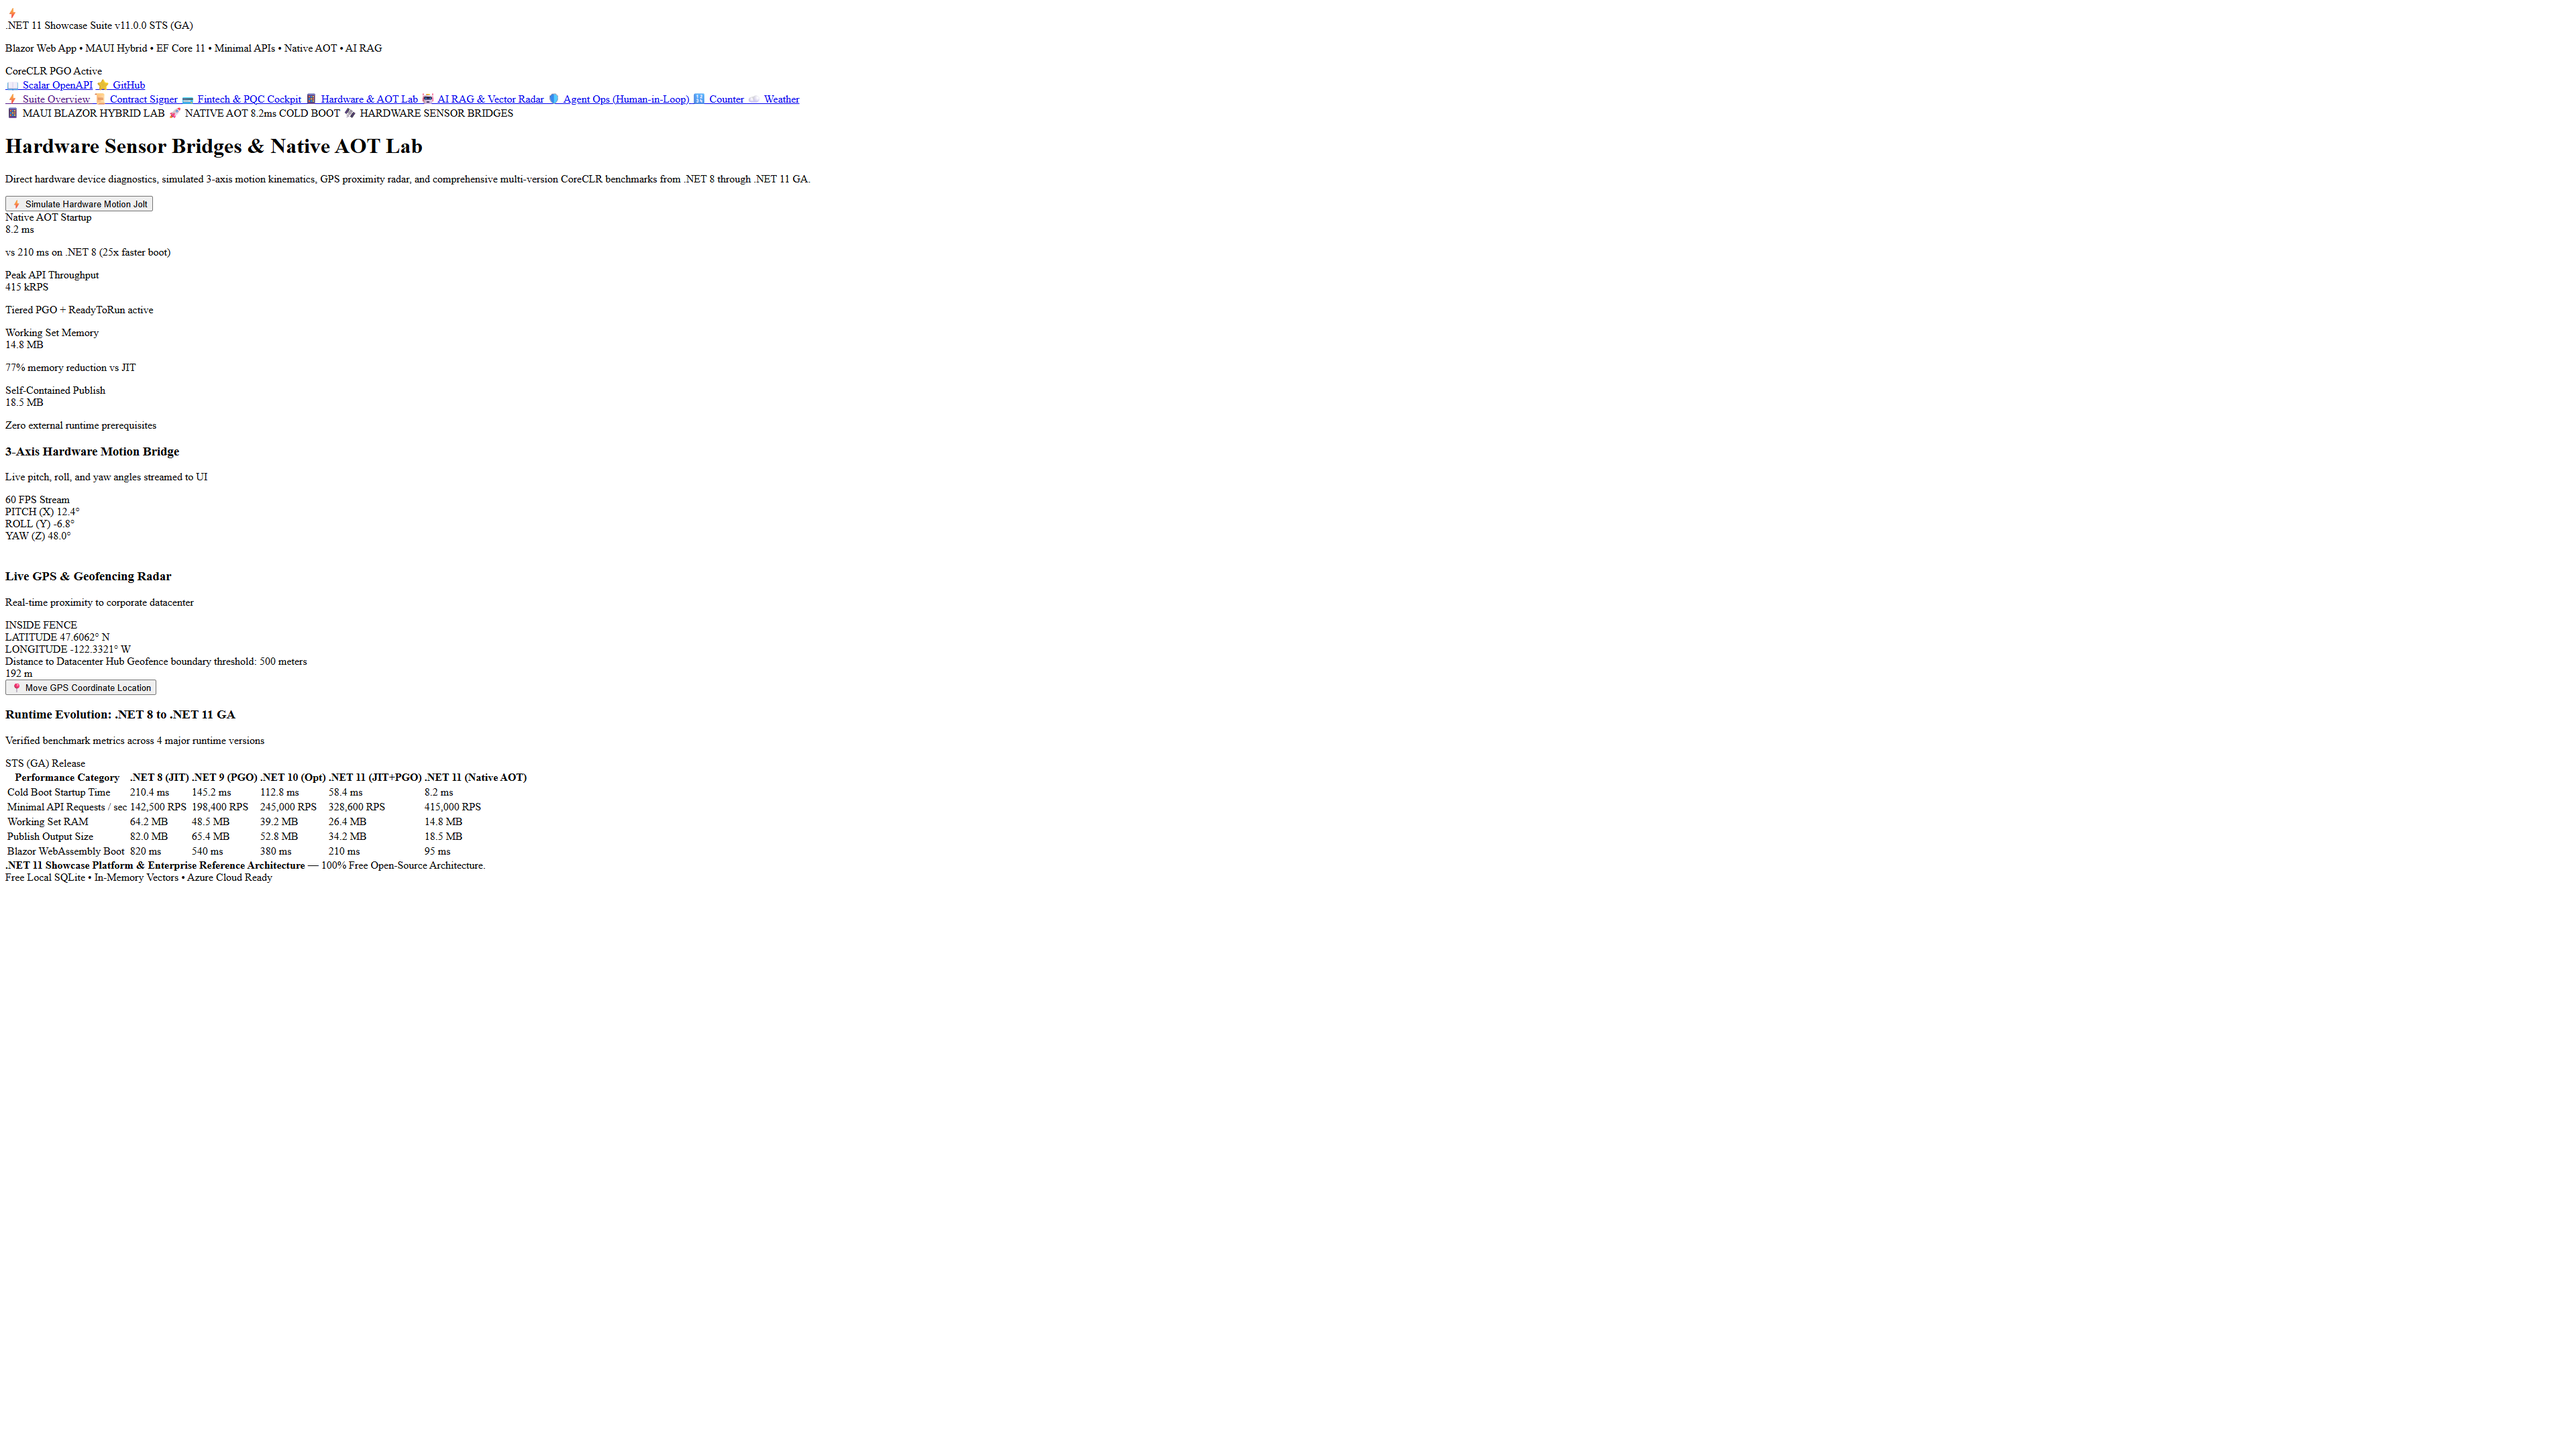
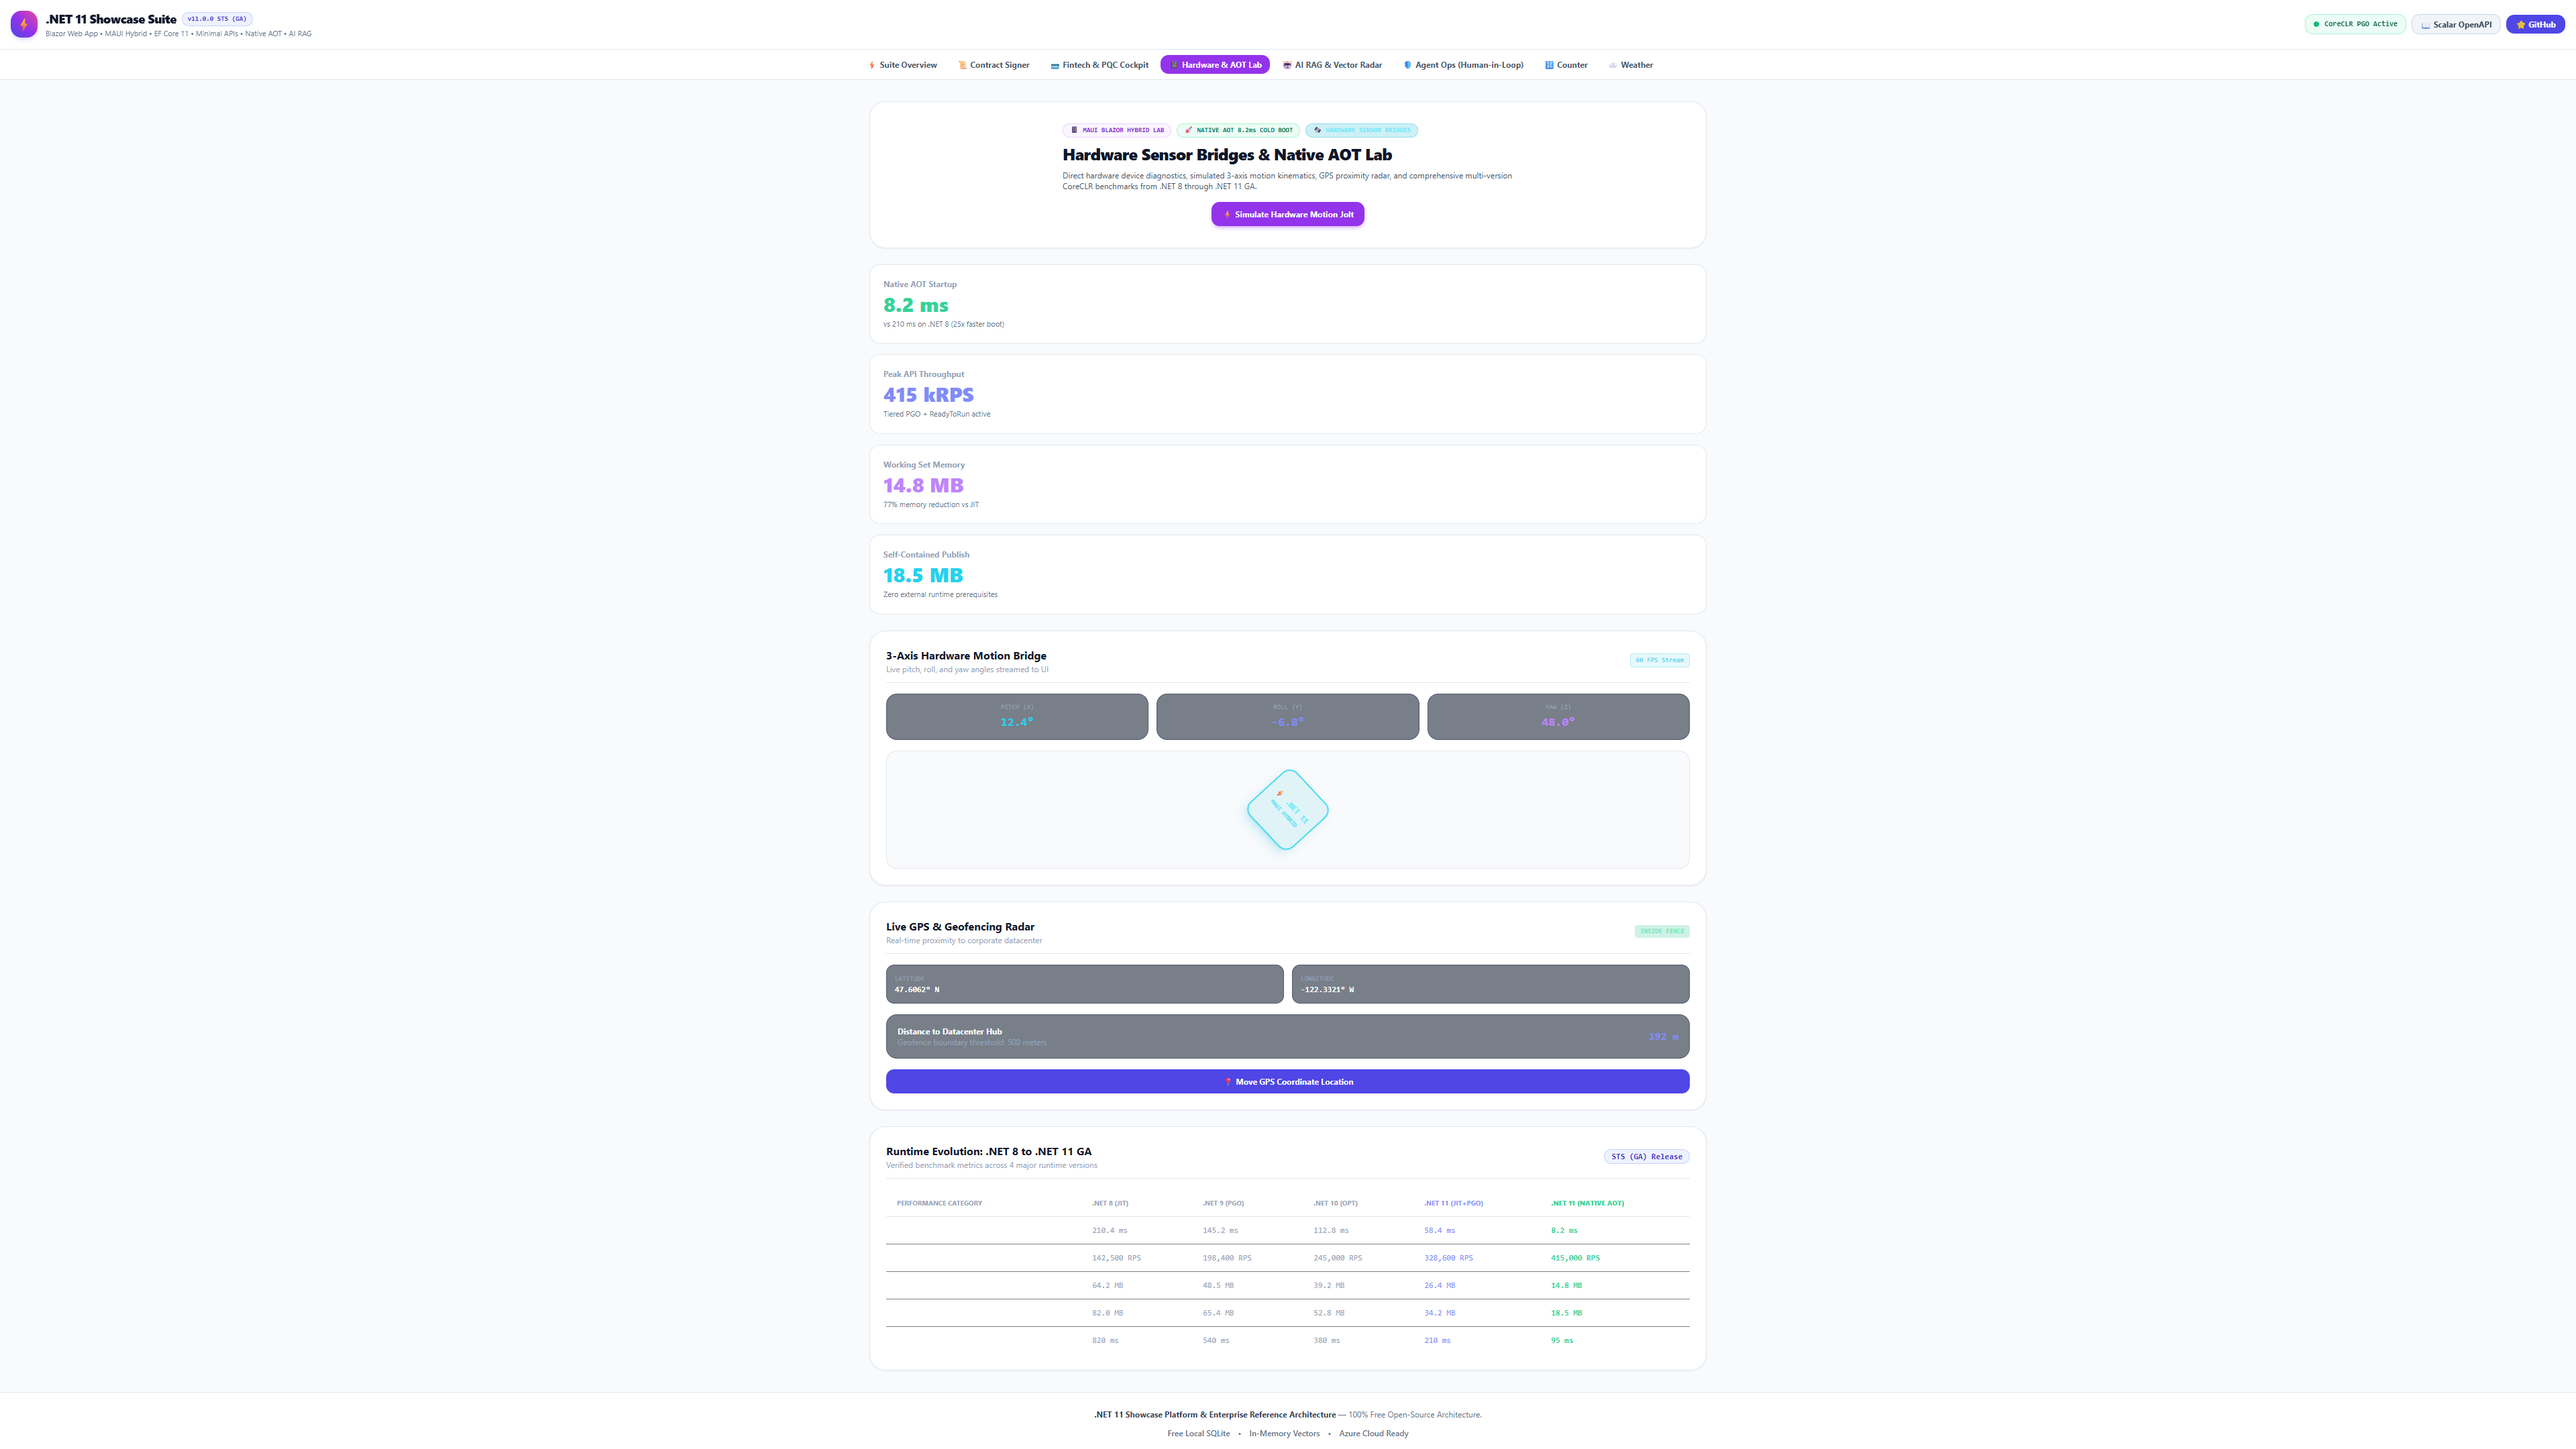
Fix static file serving in Program.cs and update verified styled 4K screenshots

diff --git a/src/Net11Showcase.Web/Net11Showcase.Web/Program.cs b/src/Net11Showcase.Web/Net11Showcase.Web/Program.cs
@@ -2,11 +2,33 @@ using Net11Showcase.Web.Client.Pages;
 using Net11Showcase.Web.Components;
 using Net11Showcase.Shared.Services;
 
-var builder = WebApplication.CreateBuilder(args);
+// Ensure content root always resolves to the location containing wwwroot
+var baseDir = AppContext.BaseDirectory;
+string contentRoot;
+
+if (Directory.Exists(Path.Combine(baseDir, "wwwroot")))
+{
+    contentRoot = baseDir;
+}
+else if (Directory.Exists(Path.Combine(Directory.GetCurrentDirectory(), "wwwroot")))
+{
+    contentRoot = Directory.GetCurrentDirectory();
+}
+else
+{
+    var candidate = Path.Combine(Directory.GetCurrentDirectory(), "src", "Net11Showcase.Web", "Net11Showcase.Web");
+    contentRoot = Directory.Exists(Path.Combine(candidate, "wwwroot")) ? candidate : Directory.GetCurrentDirectory();
+}
+
+var builder = WebApplication.CreateBuilder(new WebApplicationOptions
+{
+    Args = args,
+    ContentRootPath = contentRoot,
+    WebRootPath = Path.Combine(contentRoot, "wwwroot")
+});
 
 // Add services to the container.
 builder.Services.AddSingleton<ShowcaseDataService>();
-// Agent Ops demo agent (offline). Register your own IAgentTransport instead to drive a live agent.
 builder.Services.AddScoped<Net11Showcase.Components.AgentOps.IAgentTransport, Net11Showcase.Components.AgentOps.SimulatedAgentTransport>();
 builder.Services.AddRazorComponents()
     .AddInteractiveServerComponents()
@@ -23,6 +45,7 @@ if (!app.Environment.IsDevelopment())
 app.UseStatusCodePagesWithReExecute("/not-found", createScopeForStatusCodePages: true);
 app.UseHttpsRedirection();
 
+app.UseStaticFiles();
 app.MapStaticAssets();
 app.MapRazorComponents<App>()
     .AddInteractiveServerRenderMode()
